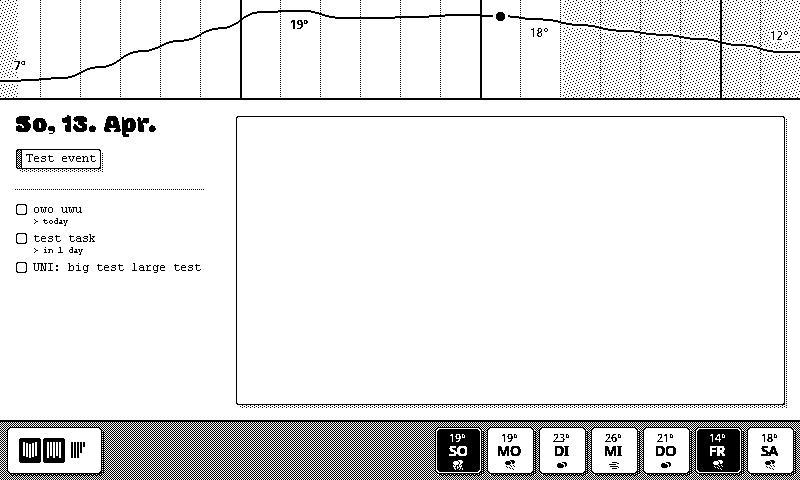
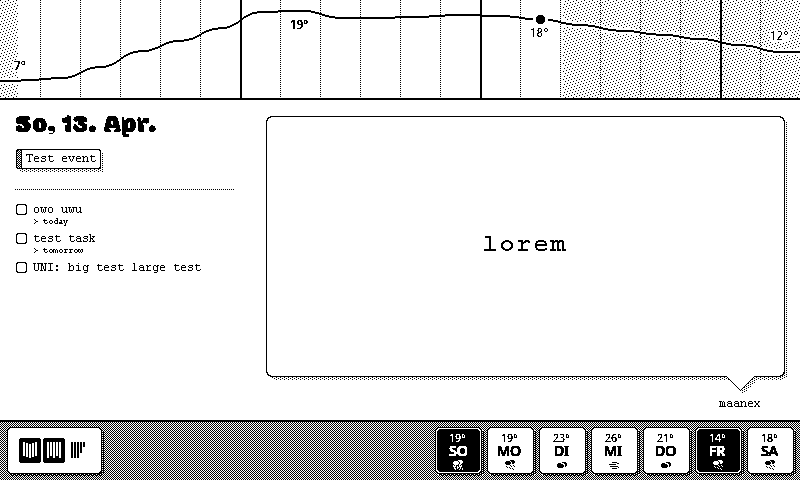
eod

diff --git a/base/lib/paint.ts b/base/lib/paint.ts
@@ -318,12 +318,27 @@ export const usePaint = (ctx: SKRSContext2D, startX = 0, startY = 0, screenWidth
       text,
       x,
       y,
-      size: 16 as (8 | 12 | 16 | 20 | 24),
-      font: 'monospace',
-      thresh: 0.9,
+      size: 16 as (8 | 12 | 16 | 20 | 24 | 'auto'),
       anchorX: 'left',
       anchorY: 'top',
-      maxWidth: 0
+      maxWidth: 0,
+      maxHeight: 0
+    }
+
+    function getSize() {
+      if (data.size !== 'auto')
+        return data.size
+
+      for (const option of [24, 20, 16, 12, 8] as const) {
+        const height = option
+        const width = cFont[option].width
+
+        const lines = TextUtils.sliceIntoNewlines(data.text, data.maxWidth / width)
+        if (lines.length * height <= data.maxHeight)
+          return option
+      }
+
+      return 8
     }
 
     const out = {
@@ -341,12 +356,8 @@ export const usePaint = (ctx: SKRSContext2D, startX = 0, startY = 0, screenWidth
         data.y += ~~dy
         return out
       },
-      size: (size: 8 | 12 | 16 | 20 | 24) => {
+      size: (size: 8 | 12 | 16 | 20 | 24 | 'auto') => {
         data.size = size
-        return out
-      },
-      font: (font: string) => {
-        data.font = font
         return out
       },
       anchor: (x: 'left' | 'center' | 'right', y: 'top' | 'center' | 'bottom') => {
@@ -354,19 +365,20 @@ export const usePaint = (ctx: SKRSContext2D, startX = 0, startY = 0, screenWidth
         data.anchorY = y
         return out
       },
-      threshold: (thresh: number) => {
-        data.thresh = thresh
-        return out
-      },
       maxWidth: (maxWidth: number) => {
         data.maxWidth = maxWidth
         return out
       },
+      maxHeight: (maxHeight: number) => {
+        data.maxHeight = maxHeight
+        return out
+      },
       render: (style: FillStyle, mix?: MixMode) => {
-        const font = cFont[data.size]
+        const size = getSize()
+        const font = cFont[size]
         const lines = TextUtils.sliceIntoNewlines(data.text, data.maxWidth / font.width)
         const boxWidth = Math.max(...lines.map(line => line.length * font.width))
-        const boxHeight = lines.length * data.size
+        const boxHeight = lines.length * size
 
         let renderX = data.x
         if (data.anchorX === 'center') renderX -= boxWidth / 2
@@ -377,7 +389,7 @@ export const usePaint = (ctx: SKRSContext2D, startX = 0, startY = 0, screenWidth
 
         for (let i = 0; i < lines.length; i++) {
           const line = lines[i]
-          const cY = renderY + i * data.size
+          const cY = renderY + i * size
           for (let j = 0; j < line.length; j++) {
             const char = line[j]
             const charData = (font as any)[char]
@@ -385,7 +397,7 @@ export const usePaint = (ctx: SKRSContext2D, startX = 0, startY = 0, screenWidth
             const cX = renderX + j * font.width
 
             let byte = 0
-            for (let row = 0; row < data.size; row++) {
+            for (let row = 0; row < size; row++) {
               for (let col = 0; col < font.width; col++) {
                 // console.log(row, col, charData[byte].toString(2).padStart(8, '0'), '.', (0x80 >> (col % 8)).toString(2).padStart(8, '0'), '.', charData[byte] & (0x80 >> (col % 8)))
                 if (charData[byte] & (0x80 >> (col % 8)))
@@ -404,10 +416,11 @@ export const usePaint = (ctx: SKRSContext2D, startX = 0, startY = 0, screenWidth
         return out
       },
       toRect: () => {
-        const font = cFont[data.size]
+        const size = getSize()
+        const font = cFont[size]
         const lines = TextUtils.sliceIntoNewlines(data.text, data.maxWidth / font.width)
         const boxWidth = Math.max(...lines.map(line => line.length * font.width))
-        const boxHeight = lines.length * data.size
+        const boxHeight = lines.length * size
 
         let renderX = data.x
         if (data.anchorX === 'center') renderX -= boxWidth / 2
@@ -426,11 +439,12 @@ export const usePaint = (ctx: SKRSContext2D, startX = 0, startY = 0, screenWidth
     return out
   }
 
-  function newTriangle(x = 0, y = 0, size = 20) {
+  function newTriangle(x = 0, y = 0, size = 20, stretch = 1) {
     const tri = {
       x,
       y,
       size,
+      stretch,
       rot: 0
     }
 
@@ -449,6 +463,10 @@ export const usePaint = (ctx: SKRSContext2D, startX = 0, startY = 0, screenWidth
         tri.size = ~~size
         return out
       },
+      stretch: (stretch: number) => {
+        tri.stretch = stretch
+        return out
+      },
       rotate: (rot: number) => {
         tri.rot = rot
         return out
@@ -457,9 +475,9 @@ export const usePaint = (ctx: SKRSContext2D, startX = 0, startY = 0, screenWidth
         // chatgpt ass function
         const x0 = tri.x
         const y0 = tri.y - tri.size
-        const x1 = tri.x - (tri.size * Math.cos(Math.PI / 6))
+        const x1 = tri.x - (tri.size * Math.cos(Math.PI / 6)) * tri.stretch
         const y1 = tri.y + (tri.size * Math.sin(Math.PI / 6))
-        const x2 = tri.x + (tri.size * Math.cos(Math.PI / 6))
+        const x2 = tri.x + (tri.size * Math.cos(Math.PI / 6)) * tri.stretch
         const y2 = y1
 
         const [x0r, y0r] = rotatePoint(x0, y0, tri.rot, tri.x, tri.y)
@@ -468,19 +486,22 @@ export const usePaint = (ctx: SKRSContext2D, startX = 0, startY = 0, screenWidth
 
         const edgeFunction = (ax: number, ay: number, bx: number, by: number, px: number, py: number) => (px - ax) * (by - ay) - (py - ay) * (bx - ax)
 
-        const minX = Math.min(x0r, x1r, x2r)
-        const maxX = Math.max(x0r, x1r, x2r)
-        const minY = Math.min(y0r, y1r, y2r)
-        const maxY = Math.max(y0r, y1r, y2r)
-      
+        const minX = Math.floor(Math.min(x0r, x1r, x2r))
+        const maxX = Math.ceil(Math.max(x0r, x1r, x2r))
+        const minY = Math.floor(Math.min(y0r, y1r, y2r))
+        const maxY = Math.ceil(Math.max(y0r, y1r, y2r))
+
         for (let y = minY; y <= maxY; y++) {
           for (let x = minX; x <= maxX; x++) {
             let w0 = edgeFunction(x1r, y1r, x2r, y2r, x, y)
             let w1 = edgeFunction(x2r, y2r, x0r, y0r, x, y)
             let w2 = edgeFunction(x0r, y0r, x1r, y1r, x, y)
-            if (w0 >= 0 && w1 >= 0 && w2 >= 0) setPixel(x, y, rasterize(style, x, y), mix)
+            if (w0 >= 0 && w1 >= 0 && w2 >= 0)
+              setPixel(x, y, rasterize(style, x, y), mix)
           }
         }
+
+        return out
       }
     }
     return out

diff --git a/base/ui/quote.ts b/base/ui/quote.ts
@@ -11,26 +11,15 @@ export function drawQuote(content: QuoteContent): Renderer {
   return ({ paint, width, height }) => {
     const padding = 15
     const maxWidth = width - padding * 2
+    const authorHeight = 28
 
     paint.newRect(0, 0, width, height)
       .fill('white')
 
-    const quote = 'lorem ipsum dolor sit amet consectetur adipiscing elit sed do eiusmod tempor incididunt ut labore et dolore magna aliqua'
-
-    // paint
-    //   .newText('Heutige Botschaft')
-    //   .maxWidth(170)
-    //   .at(padding, padding)
-    //   .anchor('left', 'top')
-    //   .size(28)
-    //   .font('Modak')
-    //   .threshold(0.05)
-    //   .render('black')
-
-    paint.newRect()
+    const innerRect = paint.newRect()
       .from(padding, padding)
-      .sized(maxWidth, height - padding*2)
-      .round(2)
+      .sized(maxWidth, height - padding*2 - authorHeight)
+      .round(5)
       .useCopy(r => r
         .translate(3, 3)
         .fill('light')
@@ -38,5 +27,37 @@ export function drawQuote(content: QuoteContent): Renderer {
       .fill('black')
       .inset(1)
       .fill('white')
+
+    paint.newTriangle()
+      .at(width - padding * 4, height - padding - authorHeight + 3)
+      .size(10)
+      .stretch(1.8)
+      .rotate(180)
+      .translate(3, 3)
+      .fill('light')
+      .translate(-3, -3)
+      .fill('black')
+      .translate(0, -1)
+      .fill('white')
+
+    innerRect.fill('white')
+
+    paint.newBitText(content.author)
+      .at(width - padding * 4, height - padding + 5)
+      .anchor('center', 'bottom')
+      .size(12)
+      .render('black')
+
+    if (content.image) {
+    } else {
+      const textPadding = padding * 2
+      paint.newBitText(content.text ?? '')
+        .at(width/2, (height - authorHeight - padding*2) / 2 + padding)
+        .anchor('center', 'center')
+        .size('auto')
+        .maxWidth(maxWidth - textPadding*2)
+        .maxHeight(height - authorHeight - padding*2 - textPadding*2)
+        .render('black')
+    }
   }
 }

diff --git a/base/index.ts b/base/index.ts
@@ -36,13 +36,9 @@ const weather = await useWeatherApi()
 consola.success('Weather loaded')
 
 consola.start('Loading gCalendar')
-// /*
 const calendar = await useGCalendarApi({
   blacklist: [ /@group\.v\.calendar\.google\.com$/gi ]
 })
-await fs.writeFile(path.join(import.meta.dir, '..', 'temp/calendar.json'), JSON.stringify(calendar, null, 2))
-//*/ const calendar = JSON.parse(await fs.readFile(path.join(import.meta.dir, '..', 'temp/calendar.json'), 'utf-8')) as GCalendarApi
-//*/
 consola.success('gCalendar loaded')
 
 consola.start('Loading holidays')
@@ -55,7 +51,7 @@ function drawScreen() {
 
   const dayviewHeight = 100
   const dockHeight = 60
-  const horizontalSplit = 220
+  const horizontalSplit = 250
 
   img.draw(
     drawDayview(weather),
@@ -68,7 +64,7 @@ function drawScreen() {
     horizontalSplit, Const.ScreenHeight - dayviewHeight - dockHeight
   )
   img.draw(
-    drawQuote(),
+    drawQuote({ author: 'maanex', text: 'lorem' }),
     horizontalSplit, dayviewHeight,
     Const.ScreenWidth - horizontalSplit, Const.ScreenHeight - dayviewHeight - dockHeight
   )

diff --git a/base/lib/datetime-utils.ts b/base/lib/datetime-utils.ts
@@ -14,10 +14,18 @@ export namespace DatetimeUtils {
 
     if (dayDifference === 0)
       return 'today'
+    if (dayDifference === 1)
+      return 'tomorrow'
+    if (dayDifference === -1)
+      return 'yesterday'
+    else if (dayDifference > 30)
+      return `in ${Math.round(dayDifference/7)} weeks`
     else if (dayDifference > 0)
-      return `in ${dayDifference} ${dayDifference === 1 ? 'day' : 'days'}`
+      return `in ${dayDifference} days`
+    else if (dayDifference < -30)
+      return `${Math.round(-dayDifference/7)} weeks ago`
     else
-      return `${-dayDifference} ${dayDifference === -1 ? 'day' : 'days'} ago`
+      return `${-dayDifference} days ago`
   }
 
 }
